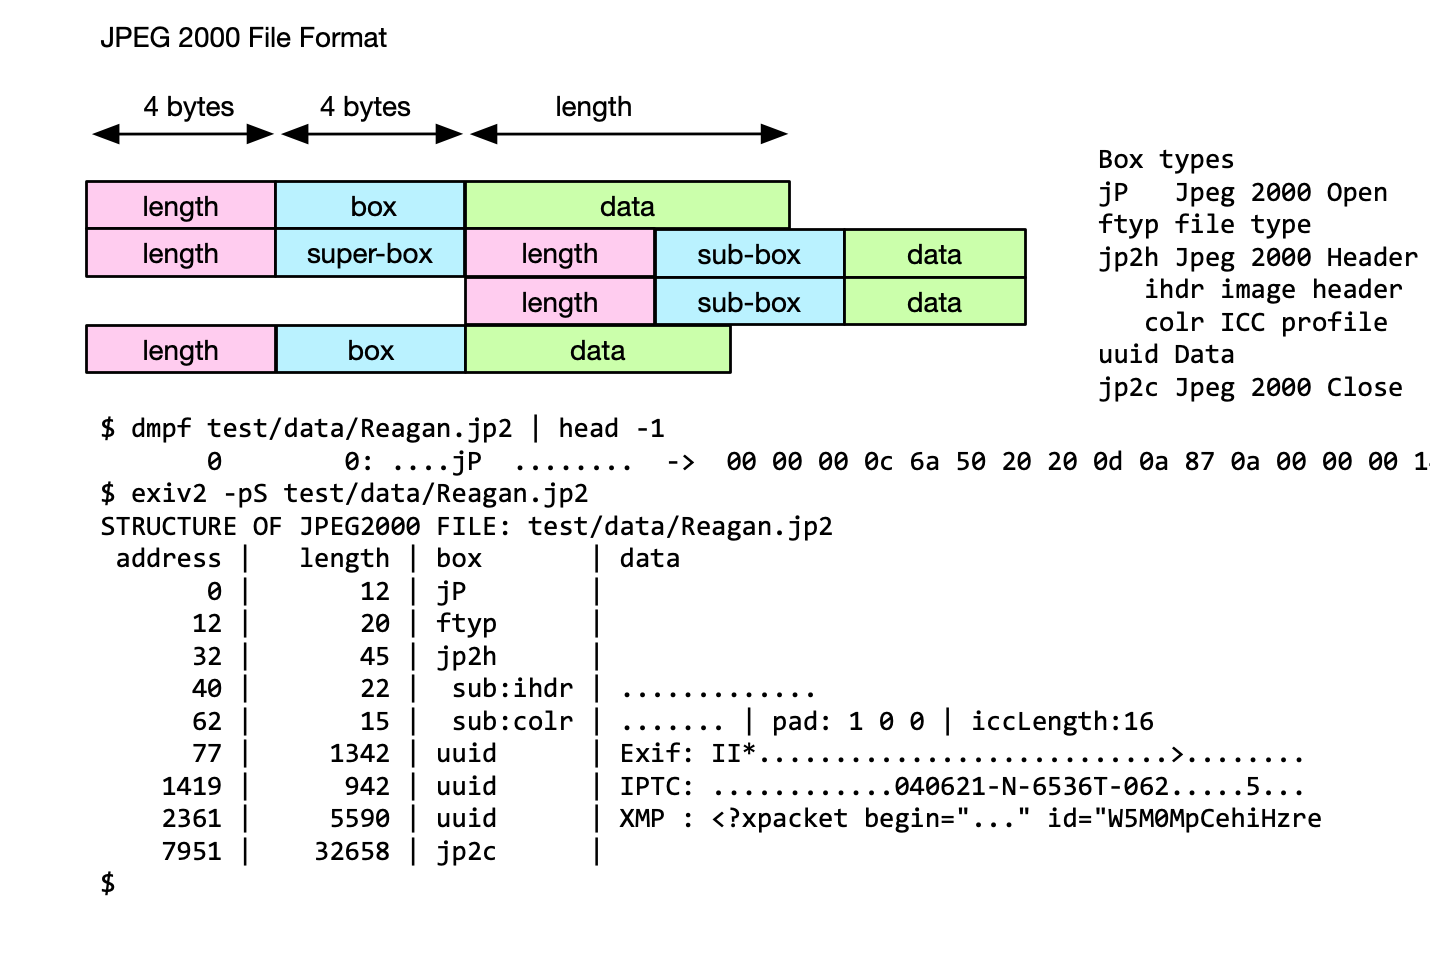
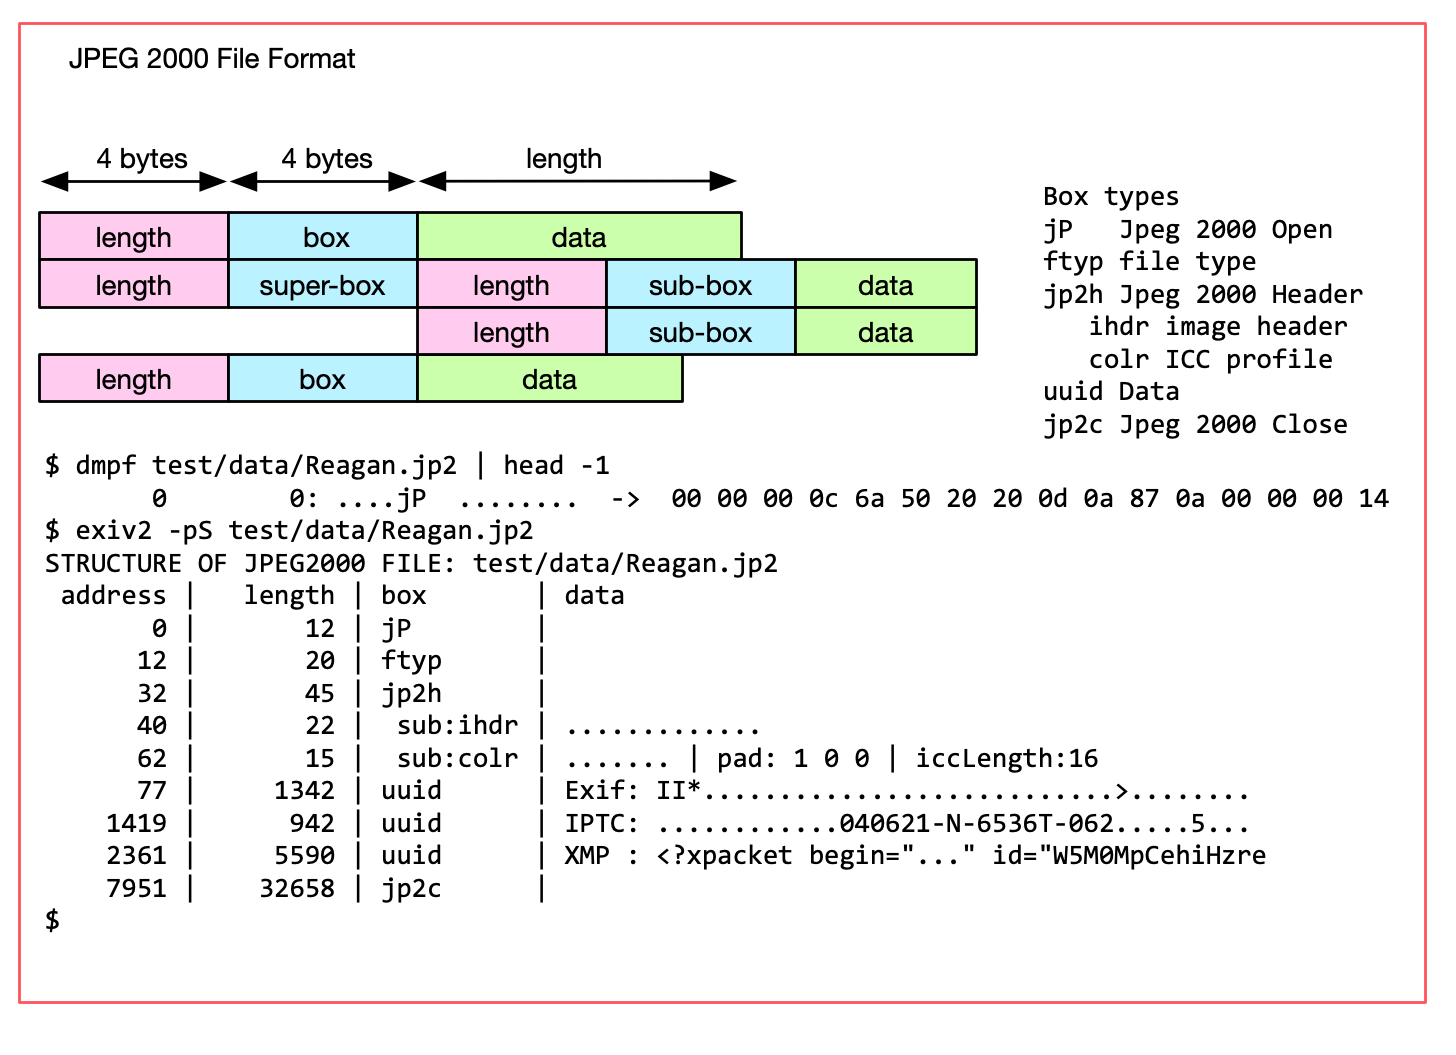
Image format graphics redrawn.

diff --git a/book/IMaEA.md b/book/IMaEA.md
@@ -111,11 +111,11 @@ The toolset used in Software Engineering evolves with time.  C++ has been around
 
 The most common issue raised on GitHub concerns lens recognition.  For v0.26, I added the "Configuration File" feature to enable users to modify lens recognition on their computer.  While this is helpful, many users would like Exiv2 to deal with this perfectly, both now and in the future.
 
-I intend to make a proposal at LGM in Rennes in May 2021 concerning this matter. Both exiv2 and ExifTool can format the metadata in .exv format. I will propose to implement a program to read the .exv and return the Lens. That program will have an embedded programming language with the rules to identify the lens. The scripts will be ascii files which can be updated. It will be called M2Lscript (MetaData to Lens Script), pronounced "MillsScript". The M2Lscript interpreter will be available as a command-line program, a perl module (for ExifTool) and a C++ library (for linking into exiv2).
+I intend to make a proposal at LGM in Rennes in May 2021 concerning this matter. Both exiv2 and ExifTool can format the metadata in .exv format. I will propose to implement a program to read the .exv and return the Lens. That program will have an embedded programming language with the rules to identify the lens. The scripts will be ascii files which can be updated. It will be called M2Lscript (MetaData to Lens Script), pronounced _**"MillsScript"**_. The M2Lscript interpreter will be available as a command-line program, a perl module (for ExifTool), a C++ library (for linking into exiv2) and perhaps a python module.
 
-In this way, new lens definitions can be added to "MillsScript" without touching anything in Exiv2.
+In this way, new lens definitions can be written in M2Lscript without touching anything in Exiv2 or ExifTool.
 
-I don't have enough time to work on both Exiv2 and M2Lscript.  Perhaps a new maintainer will take responsibility for Exiv2 and allow me to retire.  M2Lscript will be my swansong technology project.
+I don't have enough time to work on both Exiv2 and M2Lscript.  When a new maintainer will takes responsibility for Exiv2, I can retire.  M2Lscript will be my swansong technology project.
 
 [TOC](#TOC)
 <div id="scope">
@@ -148,7 +148,7 @@ The following summaries of the file formats are provided to help the reader unde
 ### 1.1 JPEG
 ![jpeg](jpeg.png)
 
-![Exif22Jpg.png](Exif22Jpg.png)
+![jpegs.png](jpegs.png)
 
 [Image File Formats](#1)<br>
 [TOC](#TOC)
@@ -1660,7 +1660,7 @@ A couple of years later, Kevin send us four security alerts.  When I invited him
 
 While security is an important matter, the behaviour of the fuzzing police is despicable and very demotivating.  They frequently report false positives which consume/waste resources.  None of those people ever say "Thank You" when something is fixed and never apologise for false positives.  They sometimes say something useless like "I did you a favour because there could have been something wrong.".
 
-I must also mention that the fuzzing police use special tools that build and instrument the code to detect any suspicious run-time activity.  Often, there is no end-user bug report to demonstrate an issue.  When they report an issue, they provide a file called `poc` = Proof of Concept.  Their bug reports are usually totally short of information about how to reproduce the issues and there is no cross-reference with their CVE tracking data-base.
+I must also mention that the fuzzing police use special tools that build and instrument the code to detect suspicious run-time activity.  Often, there is no end-user bug report to demonstrate an issue.  When they report an issue, they provide a file called `poc` = Proof of Concept.  Their bug reports are usually totally short of information about how to reproduce the issues and there is no cross-reference with their CVE tracking data-base.
 
 Everything is treated as urgent.  All their reports are assigned very high levels of vulnerability.  In short, those people are a pain in the butt and waste enormous amounts of Team Exiv2 engineering resources.
 
@@ -2315,6 +2315,6 @@ Public License instead of this License.
 
 Robin Mills<br>
 robin@clanmills.com<br>
-Revised: 2020-06-07<br>
+Revised: 2020-06-08<br>
 
 [TOC](#TOC)<br>
